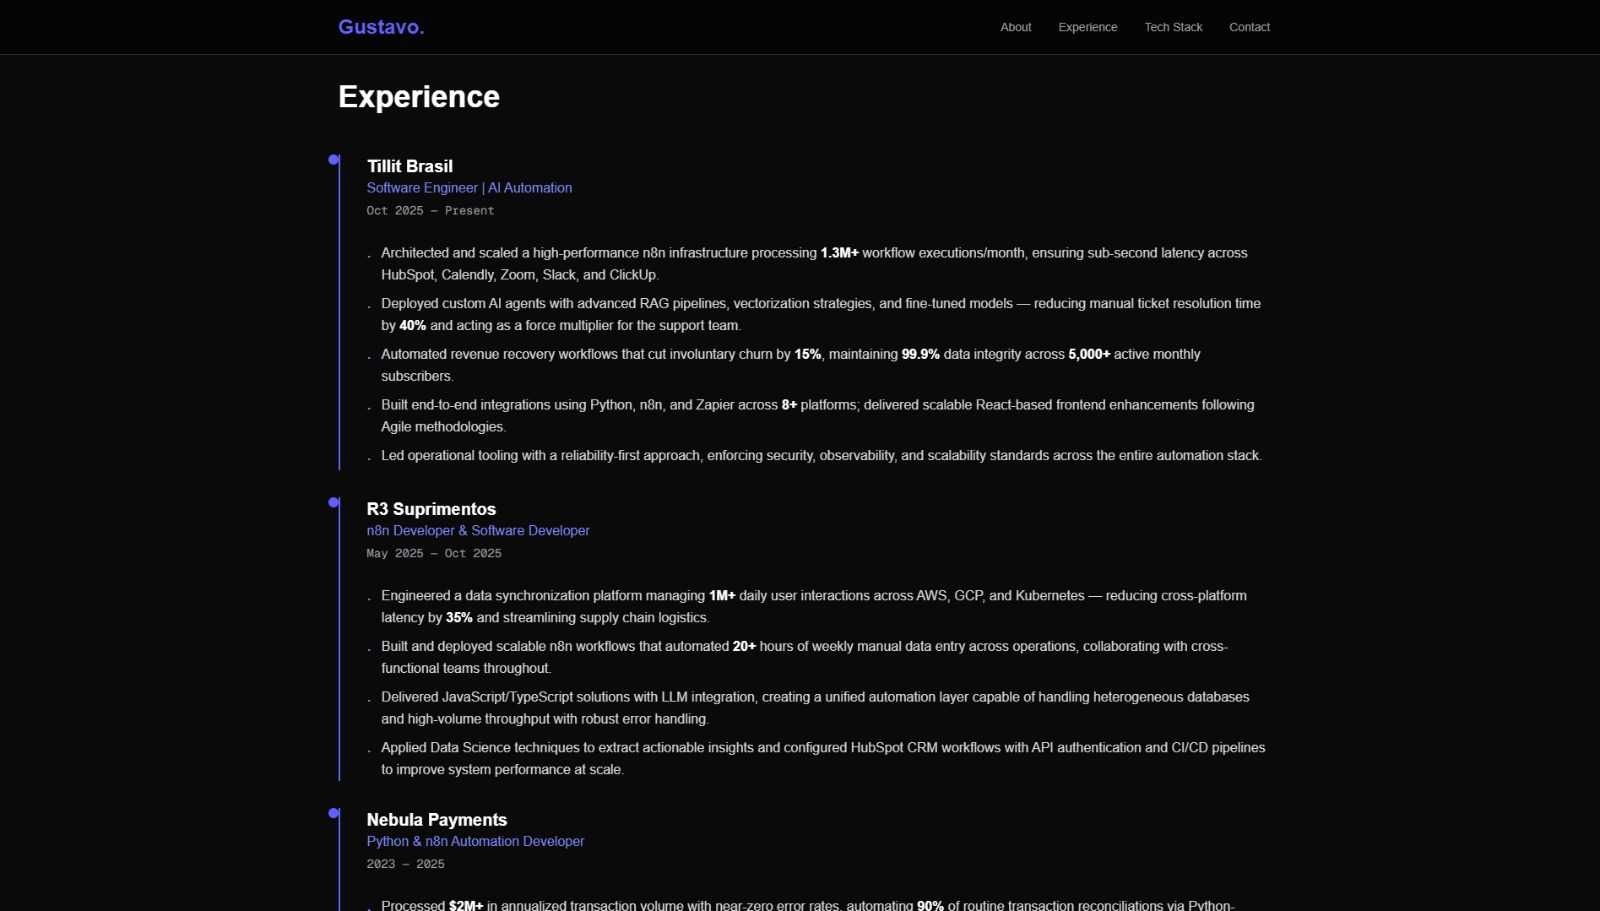
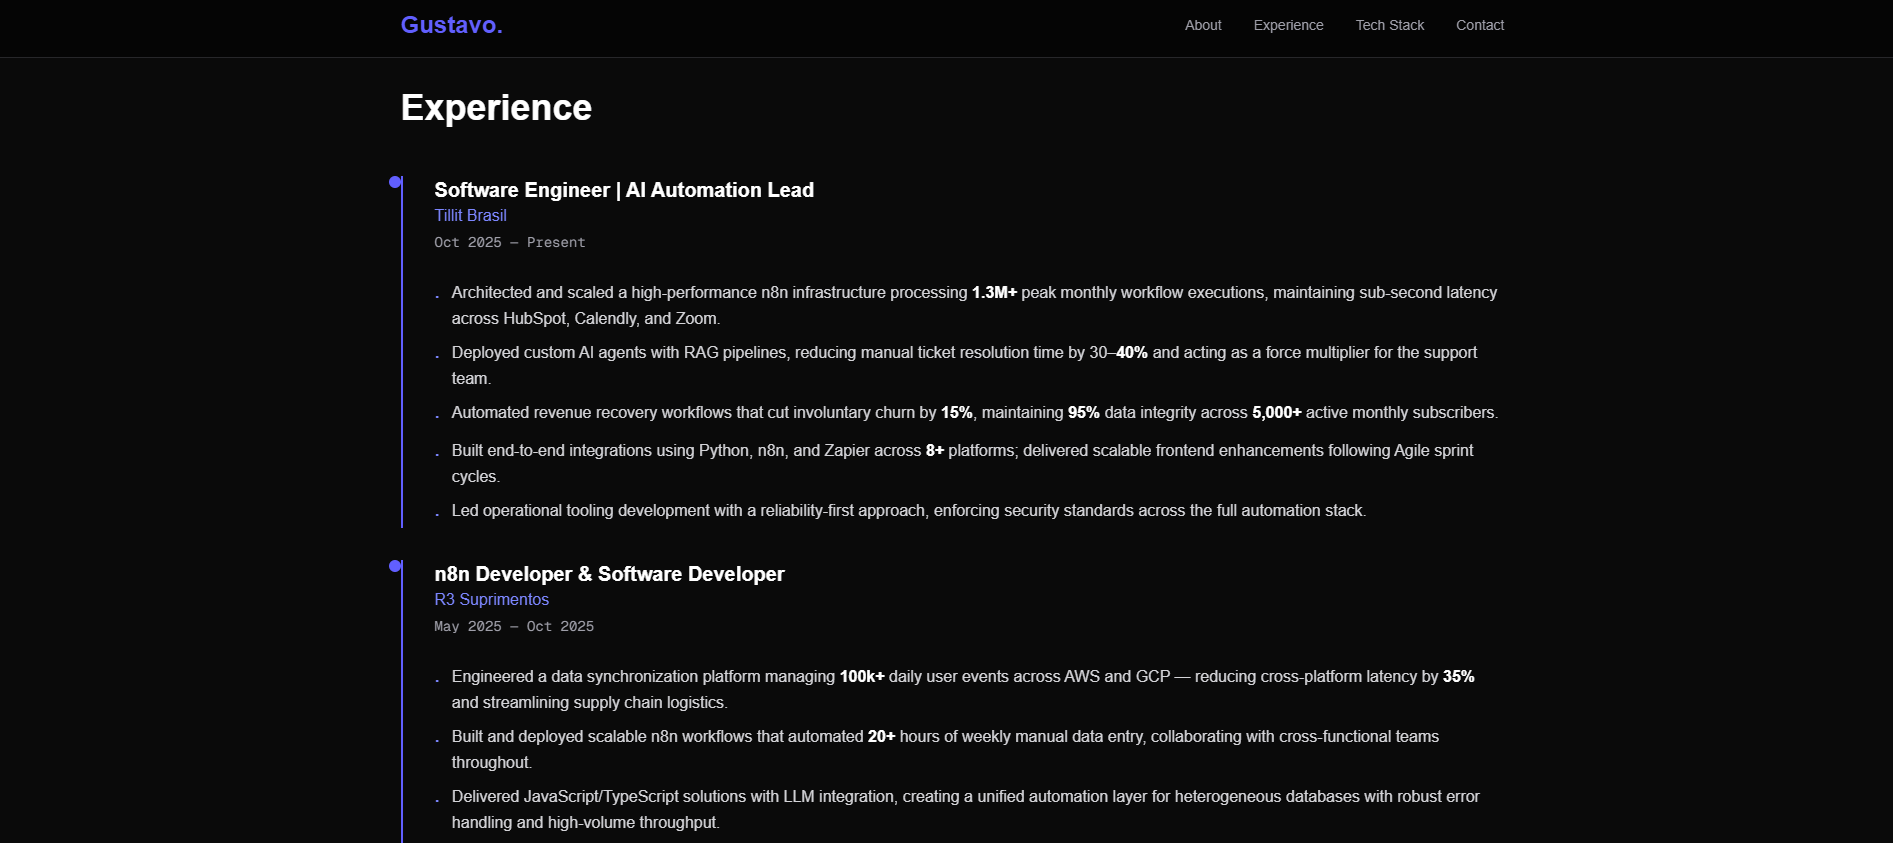
feat: add responsiveness hamburger menu button

diff --git a/src/components/Navbar.tsx b/src/components/Navbar.tsx
@@ -1,5 +1,7 @@
 "use client";
 
+import { useState } from "react";
+
 interface NavLink {
   label: string;
   href: string;
@@ -13,8 +15,11 @@ const navLinks: NavLink[] = [
 ];
 
 export function Navbar() {
+  const [isMenuOpen, setIsMenuOpen] = useState(false);
+
   const handleScrollToTop = (e: React.MouseEvent<HTMLButtonElement>) => {
     e.preventDefault();
+    setIsMenuOpen(false);
     window.scrollTo({
       top: 0,
       behavior: "smooth",
@@ -23,6 +28,7 @@ export function Navbar() {
 
   const handleNavClick = (e: React.MouseEvent<HTMLAnchorElement>, sectionId: string) => {
     e.preventDefault();
+    setIsMenuOpen(false);
     const element = document.getElementById(sectionId);
     if (element) {
       element.scrollIntoView({ behavior: "smooth" });
@@ -31,15 +37,16 @@ export function Navbar() {
 
   return (
     <nav className="fixed top-0 z-50 w-full backdrop-blur-md bg-black/50 border-b border-zinc-800">
-      <div className="max-w-6xl mx-auto px-6 py-4 flex items-center justify-between">
+      <div className="max-w-6xl mx-auto px-4 sm:px-6 py-3 sm:py-4 flex items-center justify-between">
         <button
           onClick={handleScrollToTop}
-          className="text-2xl font-bold text-indigo-500 hover:text-indigo-400 transition-colors cursor-pointer"
+          className="text-lg sm:text-2xl font-bold text-indigo-500 hover:text-indigo-400 transition-colors cursor-pointer"
         >
           Gustavo.
         </button>
 
-        <div className="flex gap-8">
+        {/* Desktop Navigation */}
+        <div className="hidden md:flex gap-6 lg:gap-8">
           {navLinks.map((link) => (
             <a
               key={link.href}
@@ -51,7 +58,48 @@ export function Navbar() {
             </a>
           ))}
         </div>
+
+        {/* Mobile Menu Button */}
+        <button
+          onClick={() => setIsMenuOpen(!isMenuOpen)}
+          className="md:hidden flex flex-col gap-1.5 w-8 h-8 justify-center"
+          aria-label="Toggle menu"
+        >
+          <span
+            className={`w-full h-0.5 bg-zinc-400 transition-all duration-300 ${
+              isMenuOpen ? "rotate-45 translate-y-2" : ""
+            }`}
+          />
+          <span
+            className={`w-full h-0.5 bg-zinc-400 transition-all duration-300 ${
+              isMenuOpen ? "opacity-0" : ""
+            }`}
+          />
+          <span
+            className={`w-full h-0.5 bg-zinc-400 transition-all duration-300 ${
+              isMenuOpen ? "-rotate-45 -translate-y-2" : ""
+            }`}
+          />
+        </button>
       </div>
+
+      {/* Mobile Menu */}
+      {isMenuOpen && (
+        <div className="md:hidden border-t border-zinc-800 bg-black/80 backdrop-blur-md">
+          <div className="px-4 py-3 space-y-2 flex flex-col">
+            {navLinks.map((link) => (
+              <a
+                key={link.href}
+                href={`#${link.href}`}
+                onClick={(e) => handleNavClick(e, link.href)}
+                className="text-zinc-400 hover:text-white transition-colors text-sm font-medium py-2 px-3 rounded hover:bg-zinc-900/50"
+              >
+                {link.label}
+              </a>
+            ))}
+          </div>
+        </div>
+      )}
     </nav>
   );
 }

diff --git a/src/components/Experience.tsx b/src/components/Experience.tsx
@@ -12,14 +12,14 @@ interface Experience {
 const experiences: Experience[] = [
   {
     company: "Tillit Brasil",
-    role: "Software Engineer | AI Automation",
+    role: "Software Engineer | AI Automation Lead",
     period: "Oct 2025 — Present",
     bullets: [
-      "Architected and scaled a high-performance n8n infrastructure processing 1.3M+ workflow executions/month, ensuring sub-second latency across HubSpot, Calendly, Zoom, Slack, and ClickUp.",
-      "Deployed custom AI agents with advanced RAG pipelines, vectorization strategies, and fine-tuned models — reducing manual ticket resolution time by 40% and acting as a force multiplier for the support team.",
-      "Automated revenue recovery workflows that cut involuntary churn by 15%, maintaining 99.9% data integrity across 5,000+ active monthly subscribers.",
-      "Built end-to-end integrations using Python, n8n, and Zapier across 8+ platforms; delivered scalable React-based frontend enhancements following Agile methodologies.",
-      "Led operational tooling with a reliability-first approach, enforcing security, observability, and scalability standards across the entire automation stack.",
+      "Architected and scaled a high-performance n8n infrastructure processing 1.3M+ peak monthly workflow executions, maintaining sub-second latency across HubSpot, Calendly, and Zoom.",
+      "Deployed custom AI agents with RAG pipelines, reducing manual ticket resolution time by 30–40% and acting as a force multiplier for the support team.",
+      "Automated revenue recovery workflows that cut involuntary churn by 15%, maintaining 95% data integrity across 5,000+ active monthly subscribers.",
+      "Built end-to-end integrations using Python, n8n, and Zapier across 8+ platforms; delivered scalable frontend enhancements following Agile sprint cycles.",
+      "Led operational tooling development with a reliability-first approach, enforcing security standards across the full automation stack.",
     ],
   },
   {
@@ -27,21 +27,31 @@ const experiences: Experience[] = [
     role: "n8n Developer & Software Developer",
     period: "May 2025 — Oct 2025",
     bullets: [
-      "Engineered a data synchronization platform managing 1M+ daily user interactions across AWS, GCP, and Kubernetes — reducing cross-platform latency by 35% and streamlining supply chain logistics.",
-      "Built and deployed scalable n8n workflows that automated 20+ hours of weekly manual data entry across operations, collaborating with cross-functional teams throughout.",
-      "Delivered JavaScript/TypeScript solutions with LLM integration, creating a unified automation layer capable of handling heterogeneous databases and high-volume throughput with robust error handling.",
-      "Applied Data Science techniques to extract actionable insights and configured HubSpot CRM workflows with API authentication and CI/CD pipelines to improve system performance at scale.",
+      "Engineered a data synchronization platform managing 100k+ daily user events across AWS and GCP — reducing cross-platform latency by 35% and streamlining supply chain logistics.",
+      "Built and deployed scalable n8n workflows that automated 20+ hours of weekly manual data entry, collaborating with cross-functional teams throughout.",
+      "Delivered JavaScript/TypeScript solutions with LLM integration, creating a unified automation layer for heterogeneous databases with robust error handling and high-volume throughput.",
+      "Configured HubSpot CRM workflows with API authentication and CI/CD pipelines; applied Data Science techniques to drive measurable system performance improvements.",
     ],
   },
   {
     company: "Nebula Payments",
     role: "Python & n8n Automation Developer",
-    period: "2023 — 2025",
+    period: "2024 — 2025",
     bullets: [
-      "Processed $2M+ in annualized transaction volume with near-zero error rates, automating 90% of routine transaction reconciliations via Python-driven error-handling pipelines.",
+      "Processed $1.5M+ in annualized transaction volume with near-zero error rates, automating 90% of routine reconciliations via Python-driven error-handling pipelines.",
       "Designed multi-agent systems for intelligent scheduling and asynchronous follow-up management, with deep WhatsApp integration enabling real-time automated communication flows.",
-      "Built two-way RESTful API integrations across heterogeneous databases, establishing the foundational digital infrastructure for the company's payment operations.",
-      "Managed microservices deployment via Portainer, maintaining 98% uptime for internal automation tools and implementing reactive + proactive alerting systems with granular observability.",
+      "Built two-way RESTful API integrations across heterogeneous databases, establishing the foundational digital infrastructure for core payment operations.",
+      "Managed microservices deployment via Portainer, maintaining 98% uptime for internal tools and implementing reactive + proactive alerting systems with granular observability.",
+    ],
+  },
+  {
+    company: "SigaTech Soluções",
+    role: "Automation Engineer | n8n & Python Developer",
+    period: "2023 — 2024",
+    bullets: [
+      "Spearheaded the digital transformation of legacy databases, migrating 15+ manual processes to n8n workflows and increasing team throughput by 25%.",
+      "Implemented a centralized error-logging system that cut debugging time by 50%; standardized workflow libraries adopted by 4 team members, reducing onboarding time for new automation tasks by 2 weeks.",
+      "Developed custom Node.js scripts to bridge edge cases between internal ERPs and external marketplaces, ensuring data consistency across heterogeneous environments.",
     ],
   },
 ];
@@ -75,8 +85,8 @@ export function Experience() {
 
             <div className="space-y-3">
               <div>
-                <h3 className="text-xl font-bold text-white">{exp.company}</h3>
-                <p className="text-indigo-400 font-medium">{exp.role}</p>
+                <h3 className="text-xl font-bold text-white">{exp.role}</h3>
+                <p className="text-indigo-400 font-medium">{exp.company}</p>
                 <p className="text-sm text-zinc-400 font-mono pt-1">
                   {exp.period}
                 </p>